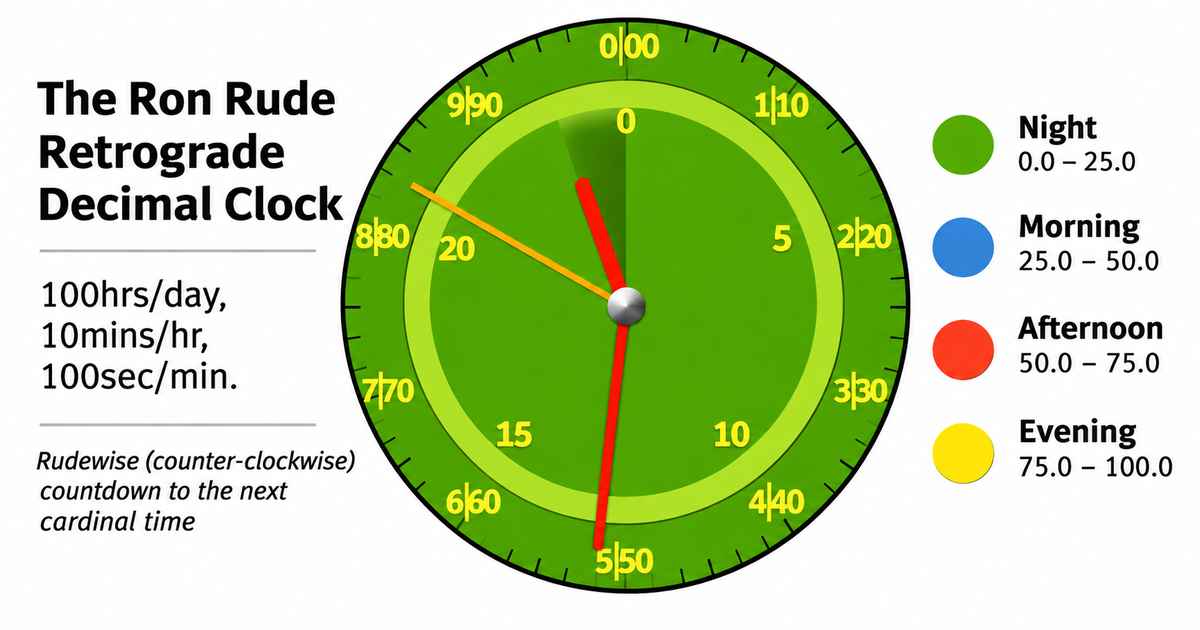
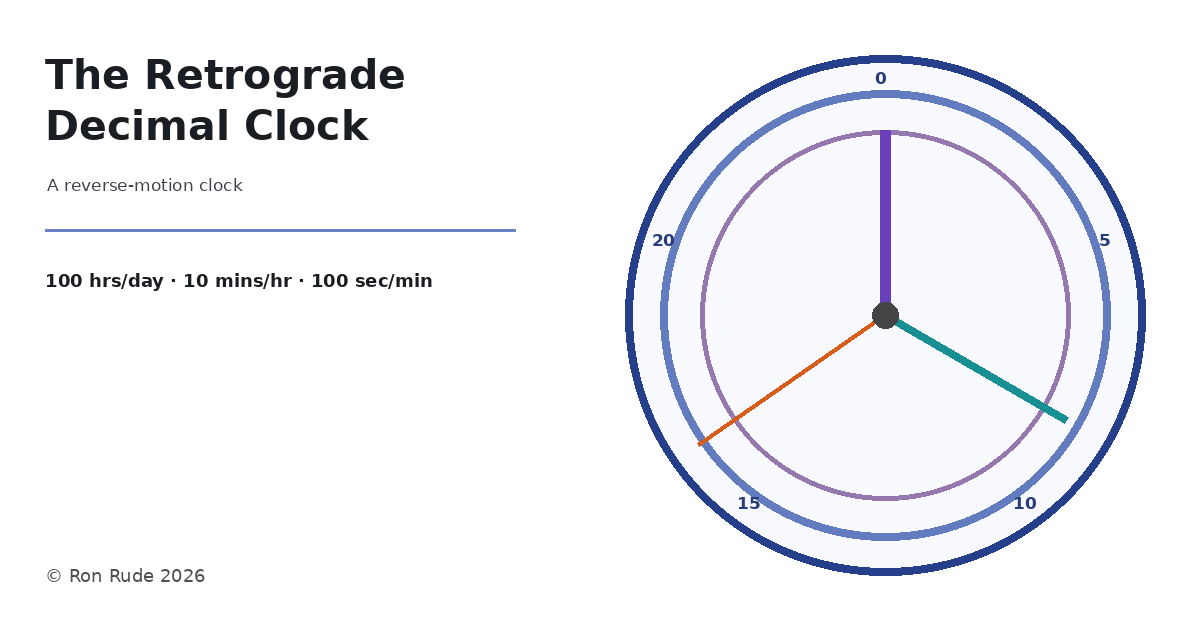
Add files via upload

diff --git a/retrograde/index.html b/retrograde/index.html
@@ -6,10 +6,10 @@
 <title>The Retrograde Decimal Clock</title>
 <meta name="description" content="Explore the 2D Retrograde Decimal Clock: a rudewise countdown to the next cardinal time, with 100 hours per day, 10 minutes per hour and 100 seconds per minute.">
 <meta property="og:type" content="website">
-<meta property="og:url" content="https://ron-rude.github.io/retrograde/">
 <meta property="og:site_name" content="The Ron Rude Decimal Clocks">
 <meta property="og:title" content="The Retrograde Decimal Clock">
-<meta property="og:description" content="A live retrograde decimal clock, counting rudewise towards the next cardinal time.">
+<meta property="og:url" content="https://ron-rude.github.io/retrograde/">
+<meta property="og:description" content="A reverse-motion clock · 100 hrs/day · 10 mins/hr · 100 sec/min.">
 <meta property="og:image" content="https://ron-rude.github.io/retrograde/2D_retrograde_clock_preview.png">
 <meta property="og:image:secure_url" content="https://ron-rude.github.io/retrograde/2D_retrograde_clock_preview.png">
 <meta property="og:image:type" content="image/png">
@@ -17,7 +17,7 @@
 <meta property="og:image:height" content="630">
 <meta name="twitter:card" content="summary_large_image">
 <meta name="twitter:title" content="The Retrograde Decimal Clock">
-<meta name="twitter:description" content="A live retrograde decimal clock, counting rudewise towards the next cardinal time.">
+<meta name="twitter:description" content="A reverse-motion clock · 100 hrs/day · 10 mins/hr · 100 sec/min.">
 <meta name="twitter:image" content="https://ron-rude.github.io/retrograde/2D_retrograde_clock_preview.png">
 <style>
 :root{
@@ -103,7 +103,7 @@ button:focus-visible,input:focus-visible{outline:2px solid #286ac7;outline-offse
 <body>
 <header class="topbar">
   <div class="toolbar">
-    <div class="brand">The Retrograde Decimal Clock<small>© Ron Rude 2026</small></div>
+    <div class="brand">The Retrograde Decimal Clock<small>A reverse-motion clock</small><small>© Ron Rude 2026</small><small>100 hrs/day · 10 mins/hr · 100 sec/min</small></div>
     <div class="controls">
       <div class="control-entry">
         <div class="additional">
